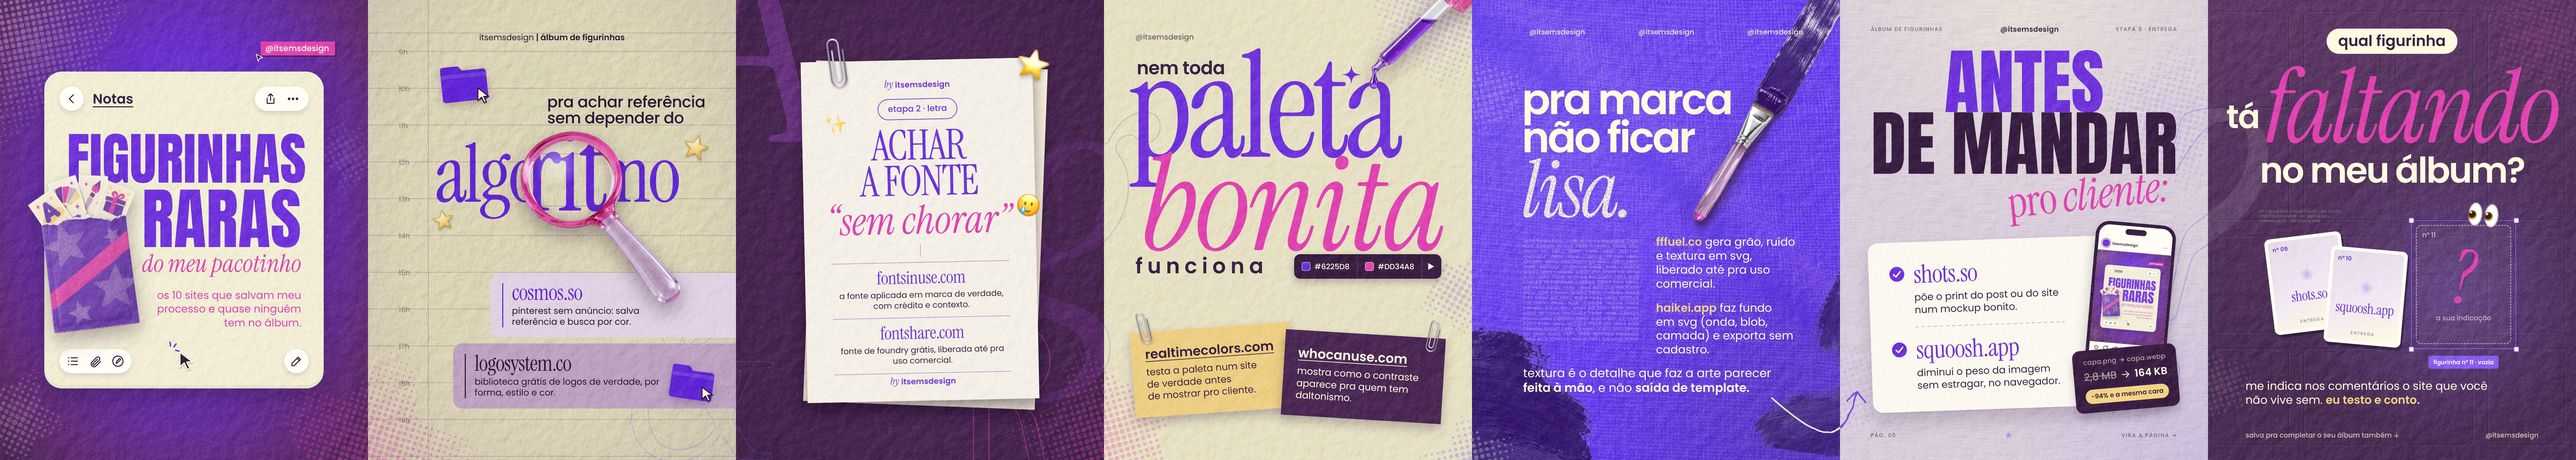
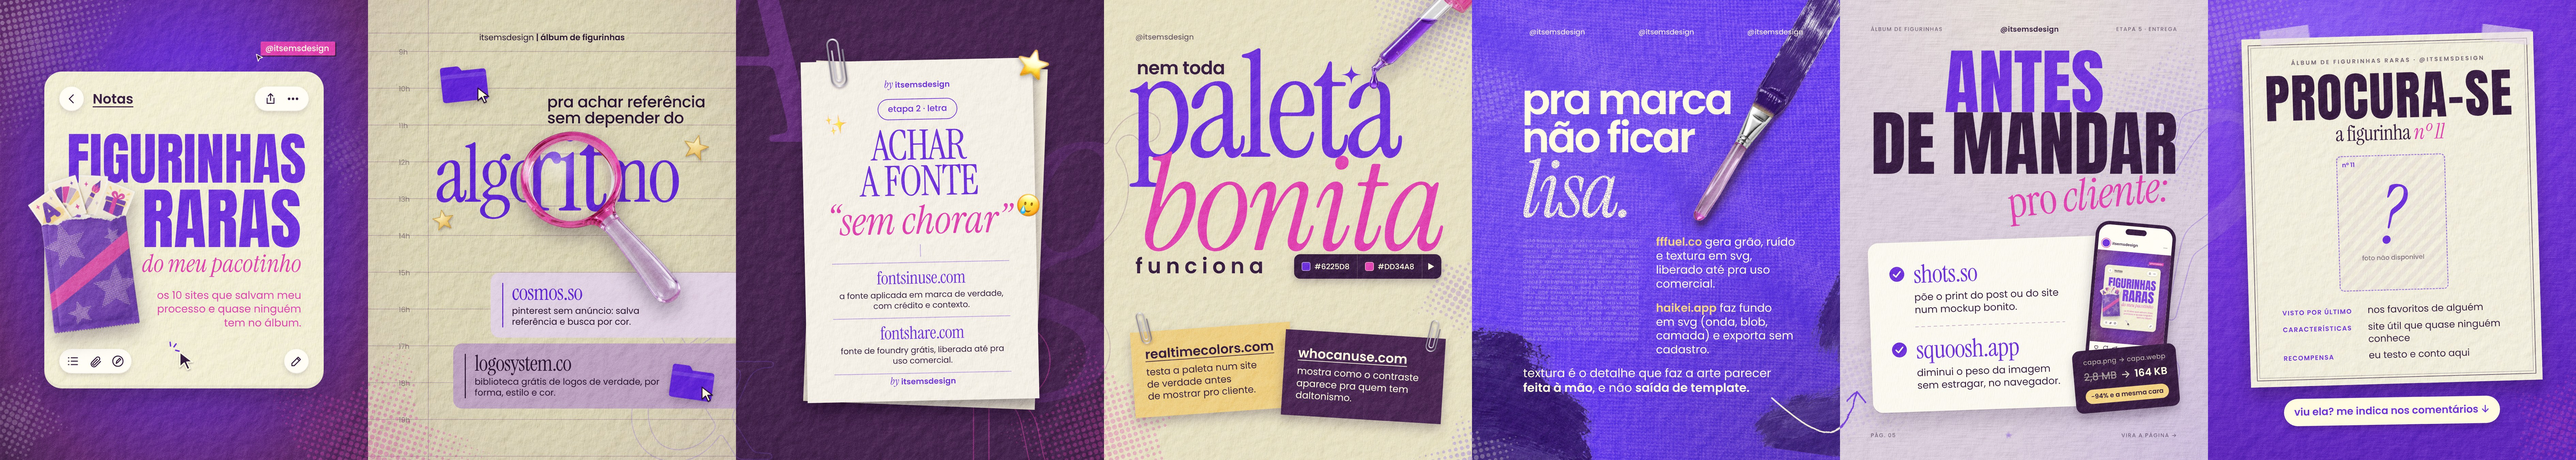
EMS figurinhas raras v4: página 7 aprovada (variante A, procura-se)
Claude-Session: https://claude.ai/code/session_01CmCiKB9wFc4qQovptupnZT

Changed region(s): [[0.8429, 0.0, 1.0, 1.0]]

diff --git a/Emi/ems-album-figurinhas/projeto/carrossel.html b/Emi/ems-album-figurinhas/projeto/carrossel.html
@@ -294,7 +294,8 @@ const PINC = 'filter:brightness(.46) saturate(1.3) contrast(1.05)';
 /* ================= 7 · chamada — ref 3 do Pinterest (pílula no topo + palavra gigante + palavra forte, a "foto" vira o álbum:
    figurinhas nº 09 e nº 10 coladas e o espaço nº 11 vazio, selecionado como no Figma, com 👀; texto miúdo repetido; marca no pé).
    Fundo escuro de página de álbum com os espaços em relevo seco. Sem 3D ================= */
-const P7 = params.get('p7') || 'atual';
+/* página 7 aprovada: variante A (procura-se). As outras ficam guardadas: ?p7=atual (álbum escuro) e ?p7=b (álbum quase completo) */
+const P7 = params.get('p7') || 'a';
 (() => {
   if (P7 !== 'atual') return;
   const c = A.chamada, [s9, s10] = A.paginas[4].sites;
